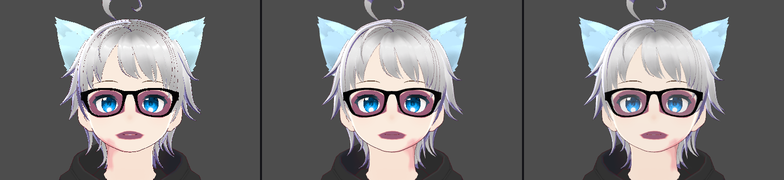
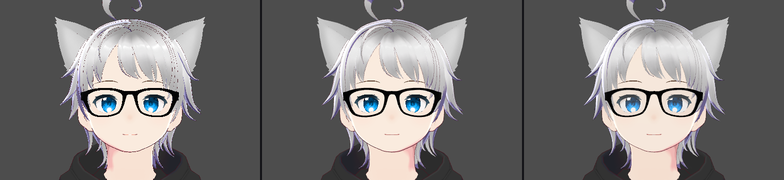
Refresh the lilToon evidence on the second sample export.

diff --git a/docs/evaluation/liltoon-webgpu.md b/docs/evaluation/liltoon-webgpu.md
@@ -1,31 +1,37 @@
 # lilToon on WebGPU check (MAT-02 slice 1)
 
-Date: 2026-11-20. Contract: [lilToon on WebGPU](../../spdd/prompt/2026-11-19-liltoon-webgpu.md). Design: [lilToon on WebGPU design](../superpowers/specs/2026-11-19-liltoon-webgpu-design.md). Issues: #269 (spike), #74 (MAT-02). Branch: `liltoon-webgpu`. The code commit is `ad33d36`; the fork pin after the calibration is `8f7e1d7`, and after the final review `b7600f1`. The fork `danirukun/three-liltoon`, branch `webgpu`, is at `66e7791` (the calibration found one defect and fixed it in `47a73c8`; the final review put the ambient inside the light limit in `66e7791`, see Calibration; the integration commit used `72d3631`).
+Date: 2026-11-20. Contract: [lilToon on WebGPU](../../spdd/prompt/2026-11-19-liltoon-webgpu.md). Design: [lilToon on WebGPU design](../superpowers/specs/2026-11-19-liltoon-webgpu-design.md). Issues: #269 (spike), #74 (MAT-02). Branch: `liltoon-webgpu`. The code commit is `ad33d36`; the fork pin after the calibration is `8f7e1d7`, and after the final review `b7600f1`. The fork `danirukun/three-liltoon`, branch `webgpu`, is at `66e7791` (the calibration found one defect and fixed it in `47a73c8`; the final review put the ambient inside the light limit in `66e7791`, see Calibration; the integration commit used `72d3631`). Sample revision: the second export (sample commit `019d288`, see Sample revision); the images and the numbers on this page are from that export, except where a line says "first revision".
 
 GPU time: unknown (#305).
 
 ## Setup
 
-- macOS 27.2 (Darwin 27.2.0, Apple M3 Pro), debug build (`pnpm dev:desktop`, `OPENSEKAI_EVALUATION=1`, `OPENSEKAI_FIXTURE_MANIFEST` with the local manifest), shared Cargo target. Fixture revision: local manifest `smoke_v1` with `fixture_vrm_liltoon` (sha256 `36b9c223…6459152`, 18,351,096 bytes) and the stored MToon Catboy `avatar_7b7c689e…`.
-- Sample: Catboy with lilToon materials, `versions.json`: Unity `6000.0.71f1`, UniVRM `0.131.4`, lilToon `2.4.1`, Mochiya Avatar Tools `c3745f3c01d43777fee6f877779b09f8ddec2f03`, export path `mochiya`. 16 materials, all `liltoon` in `material_list`, no unsupported feature. The file has no tangents (74 primitives, 0 `TANGENT`), so the normal map path makes its own tangents.
+- macOS 27.2 (Darwin 27.2.0, Apple M3 Pro), debug build (`pnpm dev:desktop`, `OPENSEKAI_EVALUATION=1`, `OPENSEKAI_FIXTURE_MANIFEST` with the local manifest), shared Cargo target. Fixture revision: local manifest `smoke_v1` with `fixture_vrm_liltoon` (sha256 `90956432…52f4f335`, 18,350,904 bytes; the first revision was `36b9c223…6459152`, 18,351,096 bytes) and the stored MToon Catboy `avatar_7b7c689e…`.
+- Sample: Catboy with lilToon materials, `versions.json`: Unity `6000.0.71f1`, UniVRM `0.131.4`, lilToon `2.4.1`, Mochiya Avatar Tools `c3745f3c01d43777fee6f877779b09f8ddec2f03`, export path `mochiya`. 16 materials, all `liltoon` in `material_list`, no unsupported feature. `_MainTex_ST` is `[1, 1, 0, 0]` on each material, and the only emission is the hair emission map. The file has no tangents (74 primitives, 0 `TANGENT`), so the normal map path makes its own tangents.
 - Output: OBS 33.0.1, browser source 1920 × 1080 at 60 FPS, WebGPU, `production_v1`, in an isolated test scene (`OpenSekai-QA-*`), with no stream and no recording. The program scene was restored at the end. Each OpenSekai capture of the running app on this page is a `GetSourceScreenshot` of that source, so it is the real output path. The WebGL 2 image is a Playwright page screenshot of the headless check (see below).
-- Preview: WebGPU in WKWebView, `preview_v1`. The login session was locked for the whole run (`CGSSessionScreenIsLocked`), so the Scene window drew no frame (`preview_main` had `lastFrame: null`). The checks that need the preview are marked below.
+- Preview: WebGPU in WKWebView, `preview_v1`. The login session was locked for the whole first-revision run (`CGSSessionScreenIsLocked`), so the Scene window drew no frame (`preview_main` had `lastFrame: null`); the stall, the minimized-Editor, and the first-revision frame-time rows come from that run. The second-revision capture run was in an unlocked session (`CGSSessionOnConsoleKey` only), and the Scene window drew frames (`preview_main` `cpuMs` 1 to 6 ms). The checks that need the preview are marked below.
 - Tools: MCP (`scene_replace`, `scene_patch`, `app_status`, `asset_list`, `material_list`), the local OBS WebSocket, `uv run --with pillow --with numpy python -I`. The scripts live outside the repository (`~/.claude/orchestrate/opensekai/liltoon-webgpu/`). App timing and OBS timing are separate.
 - Reference rig (the Unity scene of `tools/liltoon-sample`, the table in its README): camera (0, 1.3, 1.6) looking along −Z, vertical FOV 35°, 1920 × 1080; one directional light, intensity 1, color white, Unity rotation (50, 150, 0), world forward (0.3214, −0.7660, −0.5567), no shadow; flat ambient (0.2, 0.2, 0.2). In OpenSekai the light is a directional light at the default intensity 3 (3 × `UNITY_LIGHT_SCALE` = 0.955), color `#ffffff`, with the rotation quaternion (−0.408197, −0.234566, −0.109373, 0.875438), which gives the same forward, and the ambient is an Ambient light `#333333` at intensity 1: Unity reads a `Color` as sRGB in a linear project (the Unity background (0.3, 0.3, 0.3) reads back as sRGB 0.302), so `#333333` is the same flat ambient.
 
+## Sample revision
+
+The owner rejected the first sample export on 2026-11-20: the skin around the eyes and the mouth was pink and purple, and the cat ears were blue. The cause was the convert script, not the port: `tools/liltoon-sample/Editor/LilToonSampleConvert.cs` added three features that the MToon original does not have (the face outline width mask as `_ShadowBorderMask` and `_ShadowBlurMask` with an AO shift, the cat-ear `_MainTex_ST` (2, 2, 0.5, −1) tiling, and a cyan cat-ear emission), and the Unity Game view showed the same colors (the first Unity reference read 158 / 98 / 125 inside the lens and 206 / 247 / 255 on the ear). Commit `019d288` removed the three features, and Unity was run again. The second export is sha256 `90956432…52f4f335`, 18,350,904 bytes; `check_sample.py` gives 16 materials, `failures: 0`, the same variant counts, and `_MainTex_ST` `[1, 1, 0, 0]` on each material. The captures, the crops, the calibration, the alpha check, and the Metal headless checks on this page were made again on the second export with the same methods; the stall table was not (see Cost).
+
 ## Calibration (R9)
 
-The value is the mean Rec. 709 luminance (on sRGB values) of fixed boxes of the 1920 × 1080 frame, OpenSekai / Unity. The OpenSekai PNG is composited over the Unity background grey. `face_lit` is the forehead, the nose, and both cheeks. `face_shadow_jaw` is the first shadow band on the viewer's left jaw. `neck` is the body-skin band under the chin.
+The value is the mean Rec. 709 luminance (on sRGB values) of fixed boxes of the 1920 × 1080 frame, OpenSekai / Unity. The OpenSekai PNG is composited over the Unity background grey. `face_lit` is the forehead, the nose, and both cheeks. `face_shadow_jaw` is the first shadow band on the viewer's left jaw. `neck` is the body-skin band under the chin. Second sample revision, fork `66e7791`:
 
-| Region | Unity | Upstream WebGL | OpenSekai WebGPU, fork `47a73c8` | OpenSekai WebGPU, fork `66e7791` | OpenSekai (`66e7791`) / Unity |
-| --- | --- | --- | --- | --- | --- |
-| `face_lit` | 0.8040 | 0.8001 (0.995) | 0.7950 (0.989) | 0.7945 | 0.988 |
-| `face_shadow_jaw` | 0.5444 | 0.5636 (1.035) | 0.5624 (1.033) | 0.5622 | 1.033 |
-| `neck` | 0.7941 | 0.7893 (0.994) | 0.7849 (0.988) | 0.7843 | 0.988 |
+| Region | Unity | Upstream WebGL | OpenSekai WebGPU | OpenSekai / Unity |
+| --- | --- | --- | --- | --- |
+| `face_lit` | 0.8273 | 0.8235 (0.995) | 0.8154 | 0.986 |
+| `face_shadow_jaw` | 0.5444 | 0.5636 (1.035) | 0.5622 | 1.033 |
+| `neck` | 0.7947 | 0.7900 (0.994) | 0.7850 | 0.988 |
 
-- `UNITY_LIGHT_SCALE` stays `1 / Math.PI` (0.3183). At the default directional intensity 3 the summed direct light is 3 / π = 0.955. Since fork `66e7791` the port adds the ambient to the summed light and clamps the sum once (`LilToonLightingModel.ts`, `finish()`, `limit(this.#light.add(this.#ambient))`), as Unity clamps the main light plus the SH ambient (`lilGetLightColor` = `LIL_MAINLIGHT_COLOR + lilGetSHToon()`, `lil_common_functions.hlsl:999`; `clamp(lightColor, _LightMinLimit, _LightMaxLimit)`, `lil_common_macro.hlsl:2081` and `:2086`); the shading, the effects, and the outline read that one light color. In this rig the sum is 0.955 + 0.033 / π = 0.966, below `_LightMaxLimit` 1, so the limit does not engage on either side: the Unity lit skin is the albedo × min(1 + 0.033, 1) = the albedo, and the OpenSekai lit skin is the albedo × 0.966 in linear terms, about 0.985 in sRGB terms; the measured face ratio is 0.988, inside 0.95 to 1.05. No constant changed. Before `66e7791` the port limited the direct light alone and added albedo × ambient after it; with this rig that gave the same values within 0.001 (the `47a73c8` column). The `66e7791` capture differs from the `47a73c8` capture by at most 4 of 255 in any channel, and no pixel is above the 8-step threshold, so the images on this page (made at `47a73c8`) are kept.
+On the first revision (`36b9c223…`) the same boxes gave `face_lit` 0.8040 / 0.8001 / 0.7945 (0.988), `face_shadow_jaw` 0.5444 / 0.5636 / 0.5622 (1.033), and `neck` 0.7941 / 0.7893 / 0.7843 (0.988); the face box is lighter on the second revision because the AO band of the removed mask is gone from the cheeks, and the ratios moved by at most 0.002.
+
+- `UNITY_LIGHT_SCALE` stays `1 / Math.PI` (0.3183). At the default directional intensity 3 the summed direct light is 3 / π = 0.955. Since fork `66e7791` the port adds the ambient to the summed light and clamps the sum once (`LilToonLightingModel.ts`, `finish()`, `limit(this.#light.add(this.#ambient))`), as Unity clamps the main light plus the SH ambient (`lilGetLightColor` = `LIL_MAINLIGHT_COLOR + lilGetSHToon()`, `lil_common_functions.hlsl:999`; `clamp(lightColor, _LightMinLimit, _LightMaxLimit)`, `lil_common_macro.hlsl:2081` and `:2086`); the shading, the effects, and the outline read that one light color. In this rig the sum is 0.955 + 0.033 / π = 0.966, below `_LightMaxLimit` 1, so the limit does not engage on either side: the Unity lit skin is the albedo × min(1 + 0.033, 1) = the albedo, and the OpenSekai lit skin is the albedo × 0.966 in linear terms, about 0.985 in sRGB terms; the measured face ratio is 0.986, inside 0.95 to 1.05. No constant changed. Before `66e7791` the port limited the direct light alone and added albedo × ambient after it; with this rig that gave the same values within 0.001 (first revision, fork `47a73c8`: `face_lit` 0.7950, `face_shadow_jaw` 0.5624, `neck` 0.7849). The `66e7791` capture of the first revision differed from the `47a73c8` capture by at most 4 of 255 in any channel, with no pixel above the 8-step threshold.
 - The shadow side (jaw) is 3.3 % above Unity. The upstream WebGL viewer, which does not use the OpenSekai ambient path, shows the same 3.5 %, so the excess is not the fixed 1/π ambient path of the TSL model. `giEqualizationFactor` (0.9 on `CharacterLilToonMaterial`, the MToon default) applies on the lilToon path too: `CharacterLilToonMaterial.setupEnvironment()` returns the shared `CharacterEnvironmentNode`, which reads it through `materialReference('giEqualizationFactor')` (`packages/renderer/src/character-mtoon.ts:86`) and mixes the room irradiance toward its mean. The reference rig has no room fill (`environmentFill` at the default, no share fill in the smoke scene), so this measurement does not vary it.
-- Before the calibration, the OpenSekai capture had a red lift on every pixel in a shadow band and on each lit pixel of a material with the default `_ShadowBorderColor` (1, 0.01, 0): the lips read (0.961, 0.484, 0.538) against Unity (0.707, 0.486, 0.552), and the hair ahoge (0.653, 0.389, 0.497) against (0.399, 0.376, 0.484). A variant of the sample with `_ShadowBorderColor` black removed the lift and a variant with `_ShadowBorderRange` 0 did not, so the term `mix(indirect, direct, _ShadowBorderColor × lns.w)` was active with `lns.w` above 1. The generated WGSL showed the cause: the band accumulator started as `vec4(0, 0, 0, 1)`, because `vec4()` with no value is a `Vector4` whose `w` is 1. The fork commit `47a73c8` starts it at `vec4(0, 0, 0, 0)` and adds a test that fails on the old value. After the fix the lips read (0.687, 0.475, 0.538) and the ahoge (0.406, 0.384, 0.497).
+- Before the calibration (first revision), the OpenSekai capture had a red lift on every pixel in a shadow band and on each lit pixel of a material with the default `_ShadowBorderColor` (1, 0.01, 0): the lips read (0.961, 0.484, 0.538) against Unity (0.707, 0.486, 0.552), and the hair ahoge (0.653, 0.389, 0.497) against (0.399, 0.376, 0.484). A variant of the sample with `_ShadowBorderColor` black removed the lift and a variant with `_ShadowBorderRange` 0 did not, so the term `mix(indirect, direct, _ShadowBorderColor × lns.w)` was active with `lns.w` above 1. The generated WGSL showed the cause: the band accumulator started as `vec4(0, 0, 0, 1)`, because `vec4()` with no value is a `Vector4` whose `w` is 1. The fork commit `47a73c8` starts it at `vec4(0, 0, 0, 0)` and adds a test that fails on the old value. After the fix the lips read (0.687, 0.475, 0.538) and the ahoge (0.406, 0.384, 0.497).
 
 ## The three captures (R9)
 
@@ -33,9 +39,9 @@ Unity Game view (reference 1), the upstream three-liltoon WebGL path (reference 
 
 ![Unity, upstream WebGL, OpenSekai WebGPU](liltoon-webgpu/three-captures.png)
 
-Reference 2 method: the Next.js viewer of the fork has a fixed light rig and orbit controls, so reference 2 is a small page on the upstream code path (`LilToonMaterial`, `enableLilToon`, `enableLilToonVRM` from the committed `dist`) with the reference camera, one `DirectionalLight` at intensity 1 (the upstream light adapter uses the three intensity as the Unity intensity), and `AmbientLight(0x333333, 1)`, drawn by headless Chromium on the Metal GPU (`ANGLE Metal Renderer: Apple M3 Pro`), with antialiasing on. The page is not committed.
+Reference 2 method: the Next.js viewer of the fork has a fixed light rig and orbit controls, so reference 2 is a small page on the upstream code path (`LilToonMaterial`, `enableLilToon`, `enableLilToonVRM` from the committed `dist`) with the reference camera, one `DirectionalLight` at intensity 1 (the upstream light adapter uses the three intensity as the Unity intensity), and `AmbientLight(0x333333, 1)`, drawn by headless Chromium on the Metal GPU (`ANGLE Metal Renderer: Apple M3 Pro`), with antialiasing on. The page is not committed; it was made again from this description for the second revision, and on the unchanged regions it gives the first-revision values within 0.001 (`face_shadow_jaw` 0.5636, `neck` 0.7900 against 0.7893).
 
-Face, with the lit side, the band on the jaw, the eye sockets (the `_ShadowBorderMask` AO of the face), and the transparent face layers:
+Face, with the lit side, the band on the jaw, the clear skin inside the lenses (the face has no shadow mask since `019d288`), and the transparent face layers:
 
 ![Face: Unity, upstream, OpenSekai](liltoon-webgpu/bands-face.png)
 
@@ -48,12 +54,12 @@ Face, with the lit side, the band on the jaw, the eye sockets (the `_ShadowBorde
 ![Body: Unity, upstream, OpenSekai](liltoon-webgpu/bands-body.png)
 
 - First band and shadow color: the pink first band on the viewer's left jaw and under the chin, and the body-skin band at the neck, are at the same place and color in the three captures (`neck` 0.988).
-- Second and third bands: the purple second and third bands of the hair are on the ahoge and the strands away from the light in each capture (ahoge box 0.406 / 0.384 / 0.497 against Unity 0.399 / 0.376 / 0.484). The face second and third bands are off-camera at this framing, so the hair and the neck carry this check.
+- Second and third bands: the purple second and third bands of the hair are on the ahoge and the strands away from the light in each capture (ahoge box, y 40 to 60, x 940 to 975: OpenSekai 0.431 / 0.413 / 0.495, upstream 0.437 / 0.417 / 0.501, Unity 0.418 / 0.398 / 0.476; the ahoge is a spring-bone chain, and its rest pose differs by a few pixels between the captures). The face second and third bands are off-camera at this framing, so the hair and the neck carry this check.
 - Light limit: not shown by this rig. The summed light plus the ambient (0.966) is below `_LightMaxLimit` 1, so the limit does not engage on either side (see Calibration). The function itself has unit tests in the fork (`test/webgpu/math.test.ts`, `lilLimitLight([3, 3, 3], 0.05, 1, 0)` is `[1, 1, 1]`), and `test/webgpu/lighting.test.ts` checks that the one limit clamp of the graph reads the summed light and the ambient; the GPU result with a light above the limit is not in this check.
 - Normal map without tangents: the face and the body use `_BumpMap` and the file has no tangents. The lit side and the band side of the face and the neck agree with Unity in the crops above. An inversion of the bump detail is not discriminated: the crops do not show the normal-map detail at this framing.
-- The cat ear has `_MainTex_ST` (2, 2, 0.5, −1) and a `KHR_texture_transform` on the same texture; the port applies only `_MainTex_ST` (R16) and the tiled stripe and the cyan emission agree with Unity ([ear crop](liltoon-webgpu/bands-ear.png)).
-- Outlines: Unity draws them without MSAA (dotted), so the comparison is a coverage fraction, not pixel equality. Outline pixels (luminance below 0.3, red above blue) in three boxes: hair strands Unity 0.0114, upstream 0.0038, OpenSekai 0.0020; glasses 0.0077, 0.0144, 0.0047; shoulder silhouette 0.0083, 0.0126, 0.0103. The rule: a box passes when the OpenSekai coverage is within ±25 % of the Unity coverage. The shoulder silhouette passes (+24 %). Two of the three boxes are outside the rule: the hair strands (−82 %) and the glasses (−39 %). The outline on the hair strands is thinner than in Unity (the FXAA of the output softens one-pixel lines, and the dots of Unity count as more pixels); it is visible in the hair crop, but it is a difference.
-- The glasses lens (transparent, matcap) is lighter in OpenSekai (box mean 0.463 / 0.405 / 0.440 against Unity 0.386 / 0.328 / 0.383): a difference, recorded.
+- Cat ears: the second revision has the identity `_MainTex_ST` (1, 1, 0, 0) and no emission on the ear, so the ear is neutral grey in the three captures (box y 110 to 160, x 820 to 860, sRGB: Unity 0.811, upstream 0.811, OpenSekai 0.799; the MToon original 0.823). The sample no longer shows the R16 rule (`_MainTex_ST` applied, a `KHR_texture_transform` on the same texture ignored) on the GPU; the first revision did ((2, 2, 0.5, −1) plus the transform on the ear, with the tiled stripe at the same place in the three captures). The rule rests on the fork unit tests: `test/webgpu/gltf.test.ts` `does not apply KHR_texture_transform a second time on a lilToon texture` (line 423: a lilToon material with `_MainTex_ST` (2, 2, 0.5, −1) and the transform on its texture keeps the three texture matrix at identity and the property at (2, 2, 0.5, −1), while the PBR material on the same texture gets its transformed clone), and `test/webgpu/properties.test.ts` lines 98 to 116 (`_MainTex_ST` read from a `Vector4`, the default `[1, 1, 0, 0]`, a wrong-shape value keeps the default). Open: no fork test asserts that the main texture sample reads uv0 × `_MainTex_ST` (`lilToonShading.ts:62`, `LilToonNodeMaterial.ts:475`; `shading.test.ts:254` and `:282` assert only that the outline texture and the emission mask do not read it), and no Catboy capture shows a non-identity `_MainTex_ST`.
+- Outlines: Unity draws them without MSAA (dotted), so the comparison is a coverage fraction, not pixel equality. Outline pixels (luminance below 0.3, red above blue) in three boxes: hair strands Unity 0.0114, upstream 0.0038, OpenSekai 0.0020; glasses 0.0065, 0.0097, 0.0004; shoulder silhouette 0.0083, 0.0126, 0.0103. The rule: a box passes when the OpenSekai coverage is within ±25 % of the Unity coverage. The shoulder silhouette passes (+24 %). Two of the three boxes are outside the rule: the hair strands (−82 %) and the glasses (−94 %; on the first revision 0.0077 / 0.0144 / 0.0047, −39 %, when the dark AO band inside the lenses counted as outline pixels in that box). The outline on the hair strands and at the glasses is thinner than in Unity (the FXAA of the output softens one-pixel lines, and the dots of Unity count as more pixels); it is visible in the hair crop, but it is a difference.
+- The glasses lens (transparent, matcap) over the lit skin: box mean sRGB of the left lens (y 258 to 286, x 882 to 898) Unity 0.815 / 0.782 / 0.760, upstream 0.793 / 0.763 / 0.744, OpenSekai 0.792 / 0.758 / 0.738; the right lens (y 258 to 286, x 1022 to 1042) 0.770 / 0.735 / 0.712, 0.769 / 0.737 / 0.715, 0.755 / 0.720 / 0.698. OpenSekai is 2 to 3 % darker than Unity inside the lens, the same as the lit face (0.986), so the lens is no longer a separate difference. On the first revision the lens over the AO band was lighter in OpenSekai (0.463 / 0.405 / 0.440 against Unity 0.386 / 0.328 / 0.383, a box that was not recorded); that band is gone.
 
 ### Default rig and the demo show
 
@@ -69,21 +75,21 @@ The warm key light and the cool back light reach the lilToon bands and the rim o
 
 ### Load warnings
 
-`app_status` frame warnings after each load: none. `material_list`: 16 materials, profile `liltoon`, `unsupported` empty. The sample gives no `UNSUPPORTED` load warning, so `SAMPLE_WARNINGS` in `packages/renderer/test/liltoon-avatar.integration.test.ts` stays `[]`.
+`app_status` frame warnings after each load: none. `material_list`: 16 materials, profile `liltoon`, `unsupported` empty (both revisions). The sample gives no `UNSUPPORTED` load warning, so `SAMPLE_WARNINGS` in `packages/renderer/test/liltoon-avatar.integration.test.ts` stays `[]`.
 
 ## OBS output (R9)
 
 | Check | Result |
 | --- | --- |
-| Alpha | Pass. The sample over black, white, and checker: the corners have alpha 0, 0.13 % of the 3,942 edge pixels have a color channel above the alpha by more than 0.1, and 76.3 % of the frame is transparent ([image](liltoon-webgpu/obs-alpha-backgrounds.png)). No grey veil and no bright fringe. |
-| Minimized Editor | Not performed as specified: a locked session was observed instead. The Editor was never minimized (`AXMinimized` could not be set through System Events while the session was locked). In the locked session the Scene window drew no frame, and with the idle animation on, two OBS screenshots 4 s apart differ in 26,763 pixels: the output continues without a preview frame. |
-| Frame time | Output CPU 2.2 to 4.7 ms for each frame (`production_v1`, WebGPU, `lastFrame.cpuMs`; 1.1 ms on the demo Wide camera). Preview CPU unknown (no preview frame in the locked session). OBS `outputSkippedFrames` 0; OBS `activeFps` 11.8 to 26.6 and `averageFrameRenderTime` 0.85 to 1.64 ms while the session was locked (OBS throttles then; this is an OBS value, not an app value). GPU time unknown. |
+| Alpha | Pass. The sample over black, white, and checker: the corners have alpha 0, none of the 3,943 edge pixels has a color channel above the alpha by more than 0.1 (first revision: 0.13 % of 3,942), and 76.3 % of the frame is transparent ([image](liltoon-webgpu/obs-alpha-backgrounds.png)). No grey veil and no bright fringe. |
+| Minimized Editor | First revision. Not performed as specified: a locked session was observed instead. The Editor was never minimized (`AXMinimized` could not be set through System Events while the session was locked). In the locked session the Scene window drew no frame, and with the idle animation on, two OBS screenshots 4 s apart differ in 26,763 pixels: the output continues without a preview frame. |
+| Frame time | Second revision, unlocked session: output CPU 1.1 to 6.8 ms for each settled frame (`production_v1`, WebGPU, `lastFrame.cpuMs`; 14.9 ms on the first frame after the avatar load, 11.4 ms while the preview still loaded the demo stage), preview CPU 1 to 6 ms (`preview_v1`). OBS `activeFps` 60.0, `outputSkippedFrames` 0, `averageFrameRenderTime` 0.37 ms. First revision, locked session: output CPU 2.2 to 4.7 ms (1.1 ms on the demo Wide camera), preview CPU unknown (no preview frame), OBS `activeFps` 11.8 to 26.6 and `averageFrameRenderTime` 0.85 to 1.64 ms (OBS throttles then; this is an OBS value, not an app value). GPU time unknown. |
 
 ## Cost (R9)
 
 The stall is the time from the `scene_patch` that adds one lit light to the first frame at the new revision. Each run cleared the Metal shader cache of the app (`com.apple.WebKit.GPU+opensekai_desktop-*/…/com.apple.metal`) and started the app again. The scene is the avatar with N − 1 lit point lights; the add is a point, a spot, and a directional light in turn. The gate is the spot light add at 8 lit lights: fail if the sample is more than 20 % longer than the MToon Catboy.
 
-The session was locked, so the frames come from the OBS output renderer (`output_main`, `production_v1`), not from the Editor preview (`stall-avatar.mjs --output output_main`). Both avatars use the same method and the same cold cache. The Editor-preview stall is unknown.
+The session was locked, so the frames come from the OBS output renderer (`output_main`, `production_v1`), not from the Editor preview (`stall-avatar.mjs --output output_main`). Both avatars use the same method and the same cold cache. The Editor-preview stall is unknown. This table was measured on the first sample revision (`36b9c223…`) and was not repeated on the second revision (the material and program count is the same: 16 lilToon materials, 8 with an outline); the gate stays open.
 
 | Avatar, run | Spot add at 1 / 3 / 8 lit lights, first frame (ms) | Point and directional at 8 (ms) | Compile frame `cpuMs` at 8, spot (ms) |
 | --- | --- | --- | --- |
@@ -102,11 +108,13 @@ The [material-profiles check](material-profiles/headless-check.mjs) with `FIXTUR
 
 | Run | Loads | Backend | Pipeline failures | Profiles | Page errors | Raw |
 | --- | --- | --- | --- | --- | --- | --- |
-| WebGL 2, Metal GPU (`GPU_ARGS=--use-angle=metal`) | Pass, no warning | `webgl2` | 0 | 16 `liltoon` | none | [txt](liltoon-webgpu/headless-check-webgl2-metal.txt), [json](liltoon-webgpu/headless-check-webgl2-metal.json), [image](liltoon-webgpu/fixture_vrm_liltoon-webgl2.png) |
-| WebGPU, Metal GPU | Pass, no warning | `webgpu` | 0 | 16 `liltoon` | none | [txt](liltoon-webgpu/headless-check-webgpu-metal.txt), [json](liltoon-webgpu/headless-check-webgpu-metal.json); its page screenshot `fixture_vrm_liltoon-auto.png` (named in the JSON) is not kept: the later SwiftShader run wrote the same file name and removed it as one flat color |
-| WebGPU, SwiftShader (default flags) | Fail: `Room fill unavailable` (the spherical-harmonics readback) and a WebGPU device loss | `webgpu` | 0 | 16 `liltoon` | `GPUValidationError`, `WebGPU Device Lost` | [txt](liltoon-webgpu/headless-check-software.txt), [json](liltoon-webgpu/headless-check-software.json) |
-| WebGL 2, SwiftShader (default flags, 120 s) | Fail: still `BUSY Asset loading` after 120 s | `webgl2` | 0 | 16 `liltoon` | none | same files; no image (the screenshot timed out) |
+| WebGL 2, Metal GPU (`GPU_ARGS=--use-angle=metal`, `BACKENDS=webgl2`) | Pass, no warning | `webgl2` | 0 | 16 `liltoon` | none | [txt](liltoon-webgpu/headless-check-webgl2-metal.txt), [json](liltoon-webgpu/headless-check-webgl2-metal.json), [image](liltoon-webgpu/fixture_vrm_liltoon-webgl2.png) |
+| WebGPU, Metal GPU (`BACKENDS=auto`) | Pass, no warning | `webgpu` | 0 | 16 `liltoon` | none | [txt](liltoon-webgpu/headless-check-webgpu-metal.txt), [json](liltoon-webgpu/headless-check-webgpu-metal.json), [image](liltoon-webgpu/fixture_vrm_liltoon-auto.png) |
+| WebGPU, SwiftShader (default flags); first revision | Fail: `Room fill unavailable` (the spherical-harmonics readback) and a WebGPU device loss | `webgpu` | 0 | 16 `liltoon` | `GPUValidationError`, `WebGPU Device Lost` | [txt](liltoon-webgpu/headless-check-software.txt), [json](liltoon-webgpu/headless-check-software.json) |
+| WebGL 2, SwiftShader (default flags, 120 s); first revision | Fail: still `BUSY Asset loading` after 120 s | `webgl2` | 0 | 16 `liltoon` | none | same files; no image (the screenshot timed out) |
 | Control: `fixture_vrm_1` (MToon), WebGPU, SwiftShader | Fail: the same `Room fill unavailable` and device loss | `webgpu` | 0 | 13 `mtoon` | the same `GPUValidationError` | [txt](liltoon-webgpu/headless-check-control-mtoon-software.txt) |
+
+The two Metal rows were run again on the second sample revision, one backend for each run and each into its own output directory (the script names the WebGPU screenshot `fixture_vrm_liltoon-auto.png` in each run, which is how the first-revision WebGPU screenshot was lost); the logs do not name the fixture bytes, and the second-revision logs are the same text as the first-revision logs. The SwiftShader rows are from the first revision and were not repeated: they record a limit of the software adapter, not of the sample.
 
 Result: on the Metal GPU both backends load the sample with no `Pipeline compile failed`, no page error, and no WGSL error on the console (a uniform-control-flow error from `fwidth` would be a page error; there is none). On the software adapter the room-fill readback fails for the MToon control too, so it is a limit of SwiftShader WebGPU, not of the lilToon material; the 18 MB sample also does not finish its WebGL 2 load within 120 s there. In the running app (WebKit) no frame had a `Pipeline compile failed` warning across the captures and the stall runs.
 
@@ -116,10 +124,10 @@ Each row of the three-liltoon [feature matrix](https://github.com/danirukun/thre
 
 | Feature | Upstream WebGL | Slice-1 TSL | Source |
 | --- | --- | --- | --- |
-| Base color and main texture | Implemented | Implemented: `_Color`, `_MainTex`, `_MainTex_ST` through the node UVs; `KHR_texture_transform` on the same texture is ignored (R16) | `LilToonNodeMaterial.ts`, `vrm.ts` |
+| Base color and main texture | Implemented | Implemented: `_Color`, `_MainTex`, `_MainTex_ST` through the node UVs; `KHR_texture_transform` on the same texture is ignored (R16: fork `test/webgpu/gltf.test.ts:423` and `properties.test.ts:98-116`; the sample has only the identity `_MainTex_ST` since `019d288`, so the GPU result of a non-identity `_MainTex_ST` is not in this check) | `LilToonNodeMaterial.ts`, `vrm.ts` |
 | Main UV animation and tone correction | Implemented | Not drawn: no UV scroll (`_MainTex_ScrollRotate`), no `_MainTexHSVG`, no gradation; no warning | `properties.ts` |
 | Main Color 2nd/3rd, decals | Implemented | Not drawn; `unsupported-feature` warning on `_UseMain2ndTex` / `_UseMain3rdTex` | `properties.ts` |
-| First, second, third toon shadow bands | Limited | Implemented with masks (`_ShadowStrengthMask`, `_ShadowBorderMask` with the AO shift, `_ShadowBlurMask`), `_ShadowBorderColor`, the band AA; `_ShadowMaskType` 1/2 and `_ShadowColorType` 1 warn and draw as 0. A band is computed for each light, see below | `LilToonLightingModel.ts`, `lilToonMath.ts` |
+| First, second, third toon shadow bands | Limited | Implemented with masks (`_ShadowStrengthMask`, `_ShadowBorderMask` with the AO shift, `_ShadowBlurMask`), `_ShadowBorderColor`, the band AA; `_ShadowMaskType` 1/2 and `_ShadowColorType` 1 warn and draw as 0. A band is computed for each light, see below. The second sample revision has `_ShadowStrengthMask` on the body only; the border and blur masks are unit-tested in the fork (`test/webgpu/lighting.test.ts`) and are not in a Catboy capture | `LilToonLightingModel.ts`, `lilToonMath.ts` |
 | Normal Map and Normal Map 2nd | Implemented | First normal map implemented, tangents generated when the file has none; `_UseBump2ndMap` warns | `LilToonLightingModel.ts`, `vrm.ts` |
 | MatCap and MatCap 2nd | Implemented | First matcap implemented (blend modes 0 to 3, mask, `_MatCapNormalStrength`); `_MatCapCustomNormal` warns; `_UseMatCap2nd` warns | `lilToonShading.ts` |
 | Rim and directional rim | Implemented | Rim implemented once from the summed light; `_RimDirStrength` not 0 warns and draws as 0 | `lilToonShading.ts` |
@@ -161,7 +169,7 @@ Other rows of this slice:
 - No expression binds on a lilToon material (warned).
 - No UV scroll and no tone correction on the main texture.
 - The ambient enters the light color at 1/π of the three irradiance (the Lambert convention of three), so an Ambient light of the same color as a Unity flat ambient is weaker by π. The ambient of the reference rig is small (0.033), and the result is inside the calibration window. Its place is the Unity place: inside the light limit (fork `66e7791`).
-- The outline on thin hair strands is thinner than the Unity outline; the glasses lens is lighter.
+- The outline on thin hair strands and at the glasses is thinner than the Unity outline. (The lighter lens of the first revision was the AO band of the removed face mask; on the second revision the lens is inside the face ratio.)
 
 ## Headless checks
 
@@ -170,16 +178,18 @@ Other rows of this slice:
 | Fork: `npx vitest run test/webgpu` at `47a73c8` | 8 files, 135 tests passed. The new test `starts the band sum at zero in all four components` fails on the old `vec4()` (`expected [0, 0, 0, 1] to deeply equal [0, 0, 0, 0]`) and passes on the fix. |
 | Fork: `npx vitest run test/webgpu` at `66e7791` | 8 files, 149 tests passed. The new tests of the final review fail on `47a73c8`: the light-limit clamp of a plain material did not read `lilAmbient`, a material with effects had two limit clamps, and a property value of a wrong shape threw `TypeError: Cannot use 'in' operator to search for 'isColor' in null` in the glTF parse. |
 | Fork: `npm run build:webgpu` | Pass; `git diff --stat dist/index.js` empty. |
-| `pnpm exec vitest run --project unit packages/renderer/test/character-liltoon.test.ts packages/renderer/test/material-report.test.ts` at pin `66e7791` | 2 files, 16 tests passed. |
-| `pnpm exec vitest run --project integration packages/renderer/test/liltoon-avatar.integration.test.ts` | 1 test passed (`SAMPLE_WARNINGS` `[]`). |
+| `pnpm exec vitest run --project unit packages/renderer/test/character-liltoon.test.ts packages/renderer/test/material-report.test.ts` at pin `66e7791` | 2 files, 16 tests passed (run again on the second sample revision: the same). |
+| `pnpm exec vitest run --project integration packages/renderer/test/liltoon-avatar.integration.test.ts` | 1 test passed (`SAMPLE_WARNINGS` `[]`); on the second revision (manifest sha256 `90956432…`) 1 test passed, not skipped. |
 
 ## Not verified
 
-- The Editor-preview stall and the preview frame time: the session was locked and the Scene window drew no frame. The stall table is the output renderer.
-- The minimized-Editor state itself (`AXMinimized` was not settable while locked); the output-continues check used the locked session instead.
+- The Editor-preview stall: the session was locked in the stall run, and the Scene window drew no frame. The stall table is the output renderer, on the first sample revision. (The preview frame time was read in the unlocked second-revision run, see OBS output.)
+- The minimized-Editor state itself (`AXMinimized` was not settable while locked); the output-continues check used the locked session instead (first revision).
 - GPU time (#305).
 - Windows.
 - Transparent+outline, TwoPass, Fur, Gem, and Refraction materials (the sample has none).
 - The cutout alpha test in the shadow caster.
 - A scene with more than one toon light against Unity (by design different).
 - The look of the avatar on the WebGL 2 fallback: the headless check proves that it loads and compiles; the only image is the page screenshot of the Metal GPU WebGL 2 run (`fixture_vrm_liltoon-webgl2.png`, the smoke-scene camera and lights, not the reference rig). The SwiftShader runs made no image.
+- A non-identity `_MainTex_ST` on the GPU (R16): unit tests only since the second sample revision.
+- The owner look check on the second revision: the four-panel image (Unity MToon original, Unity lilToon, upstream WebGL, OpenSekai WebGPU; face and ears at 2×) is in the orchestrate folder, not in the repository.
